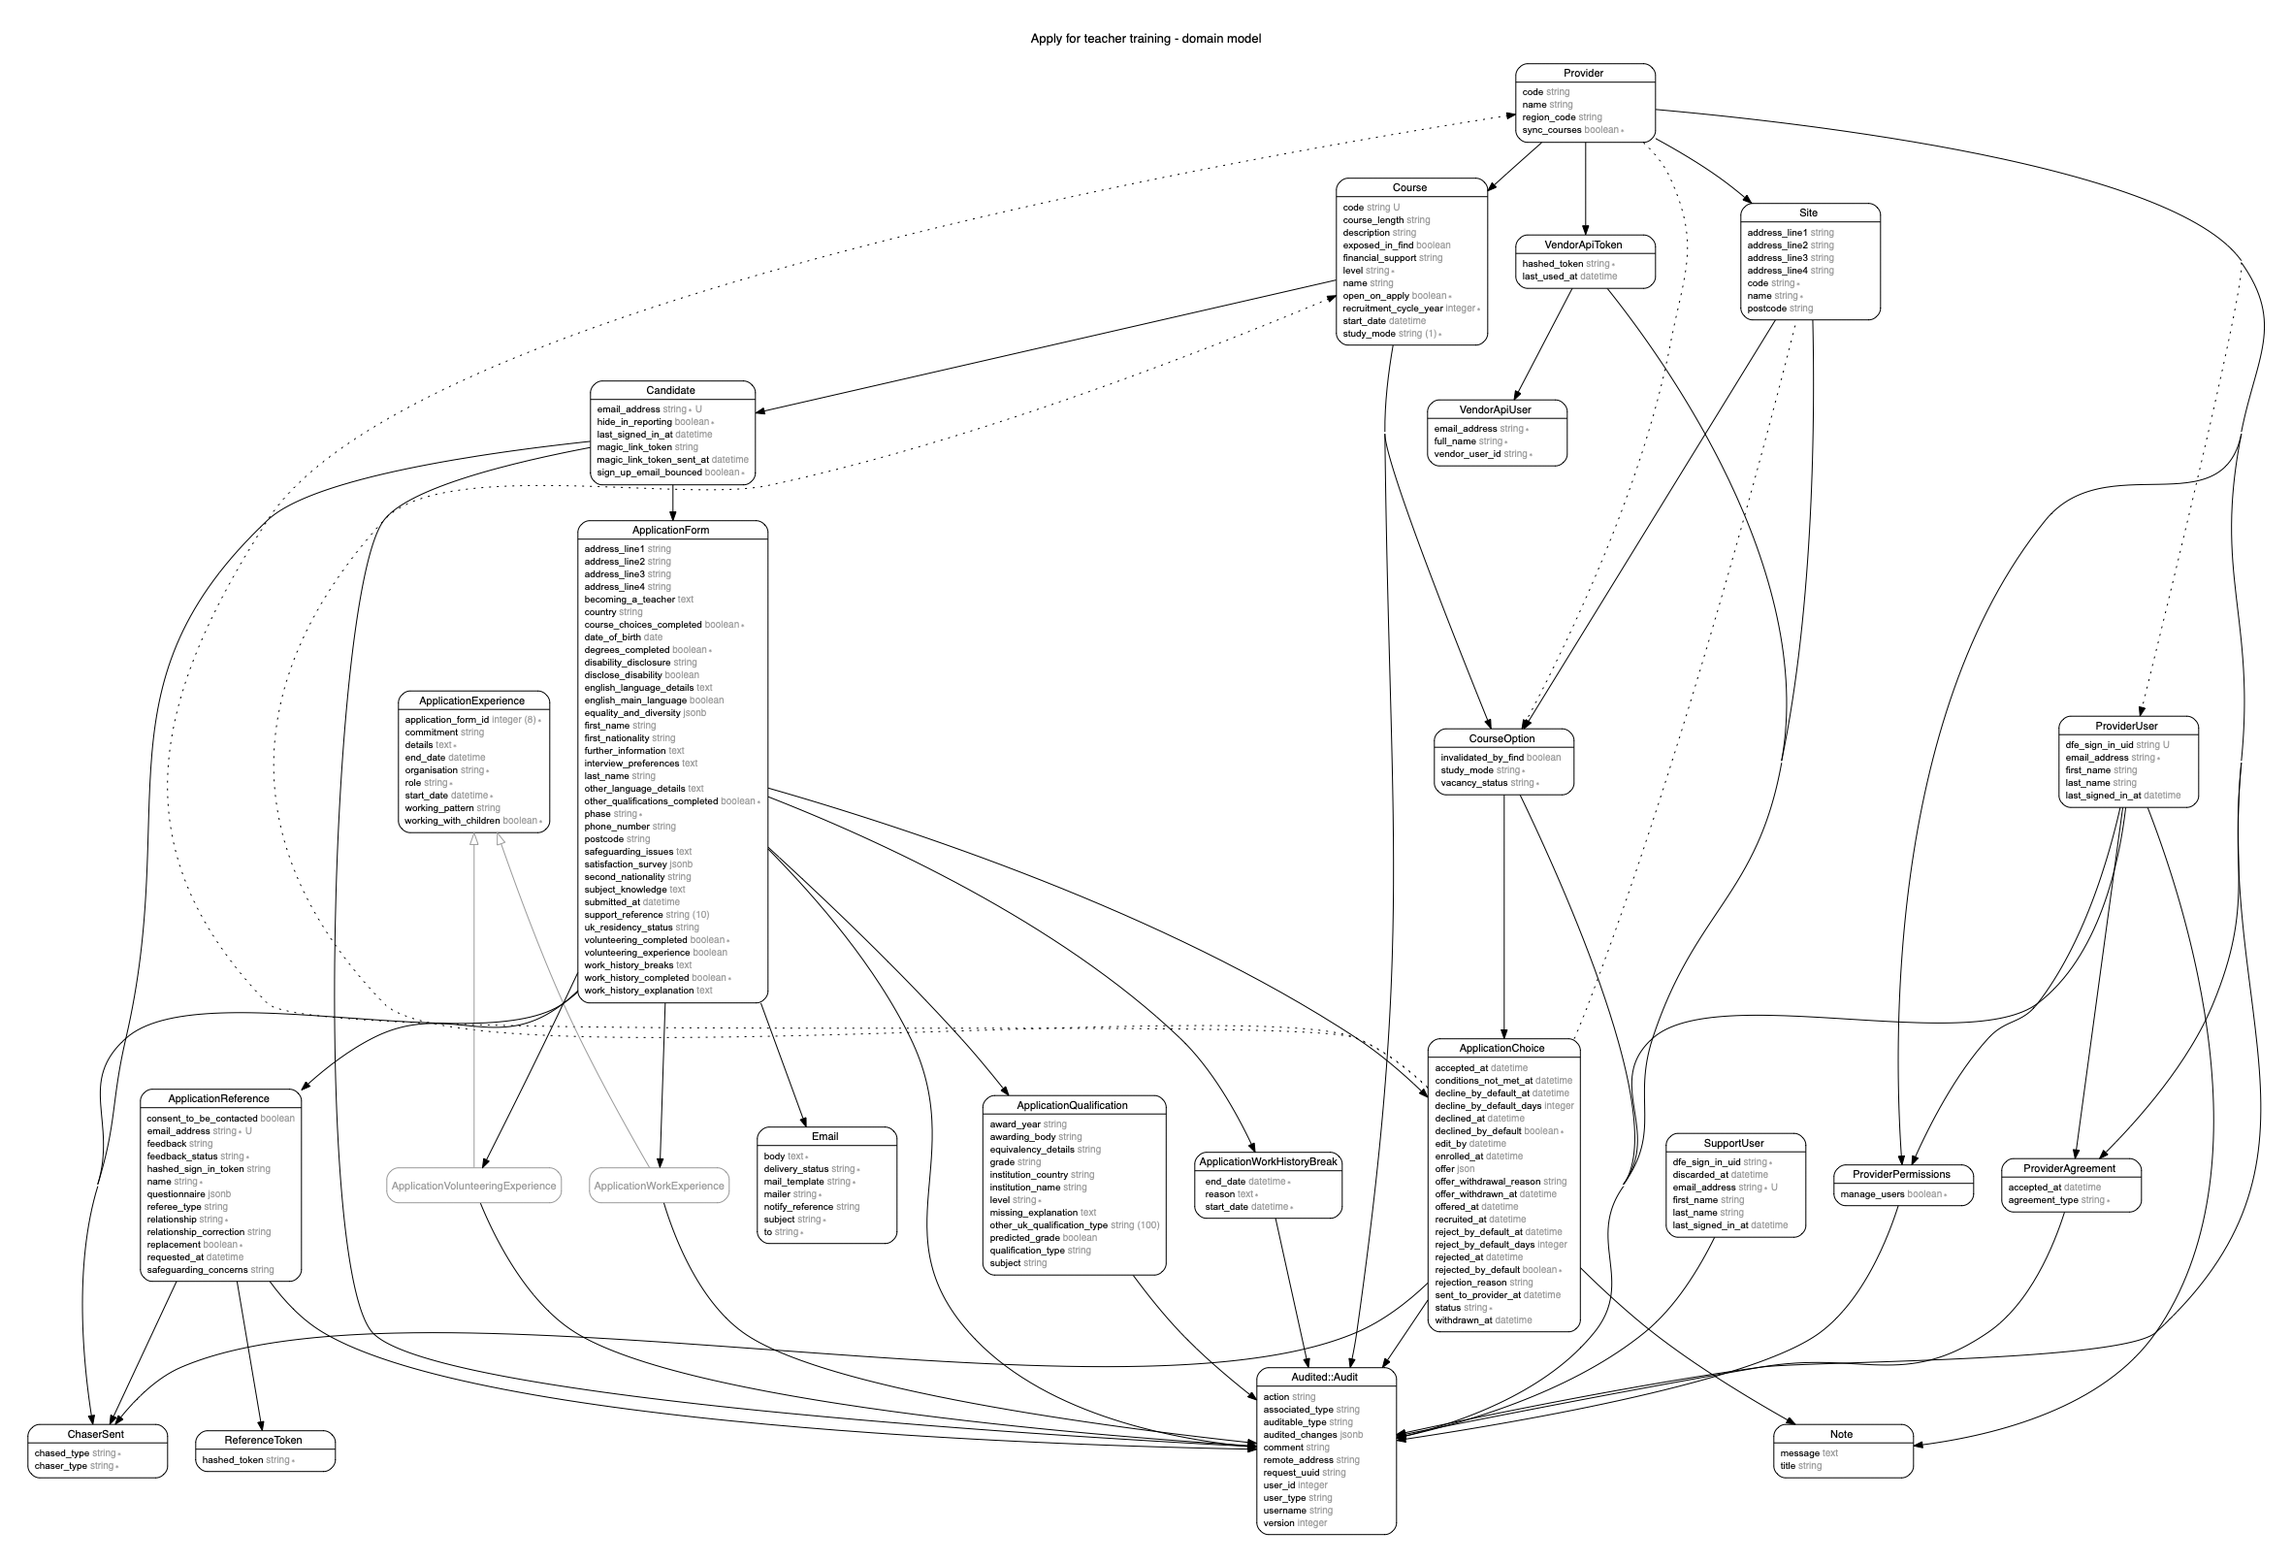
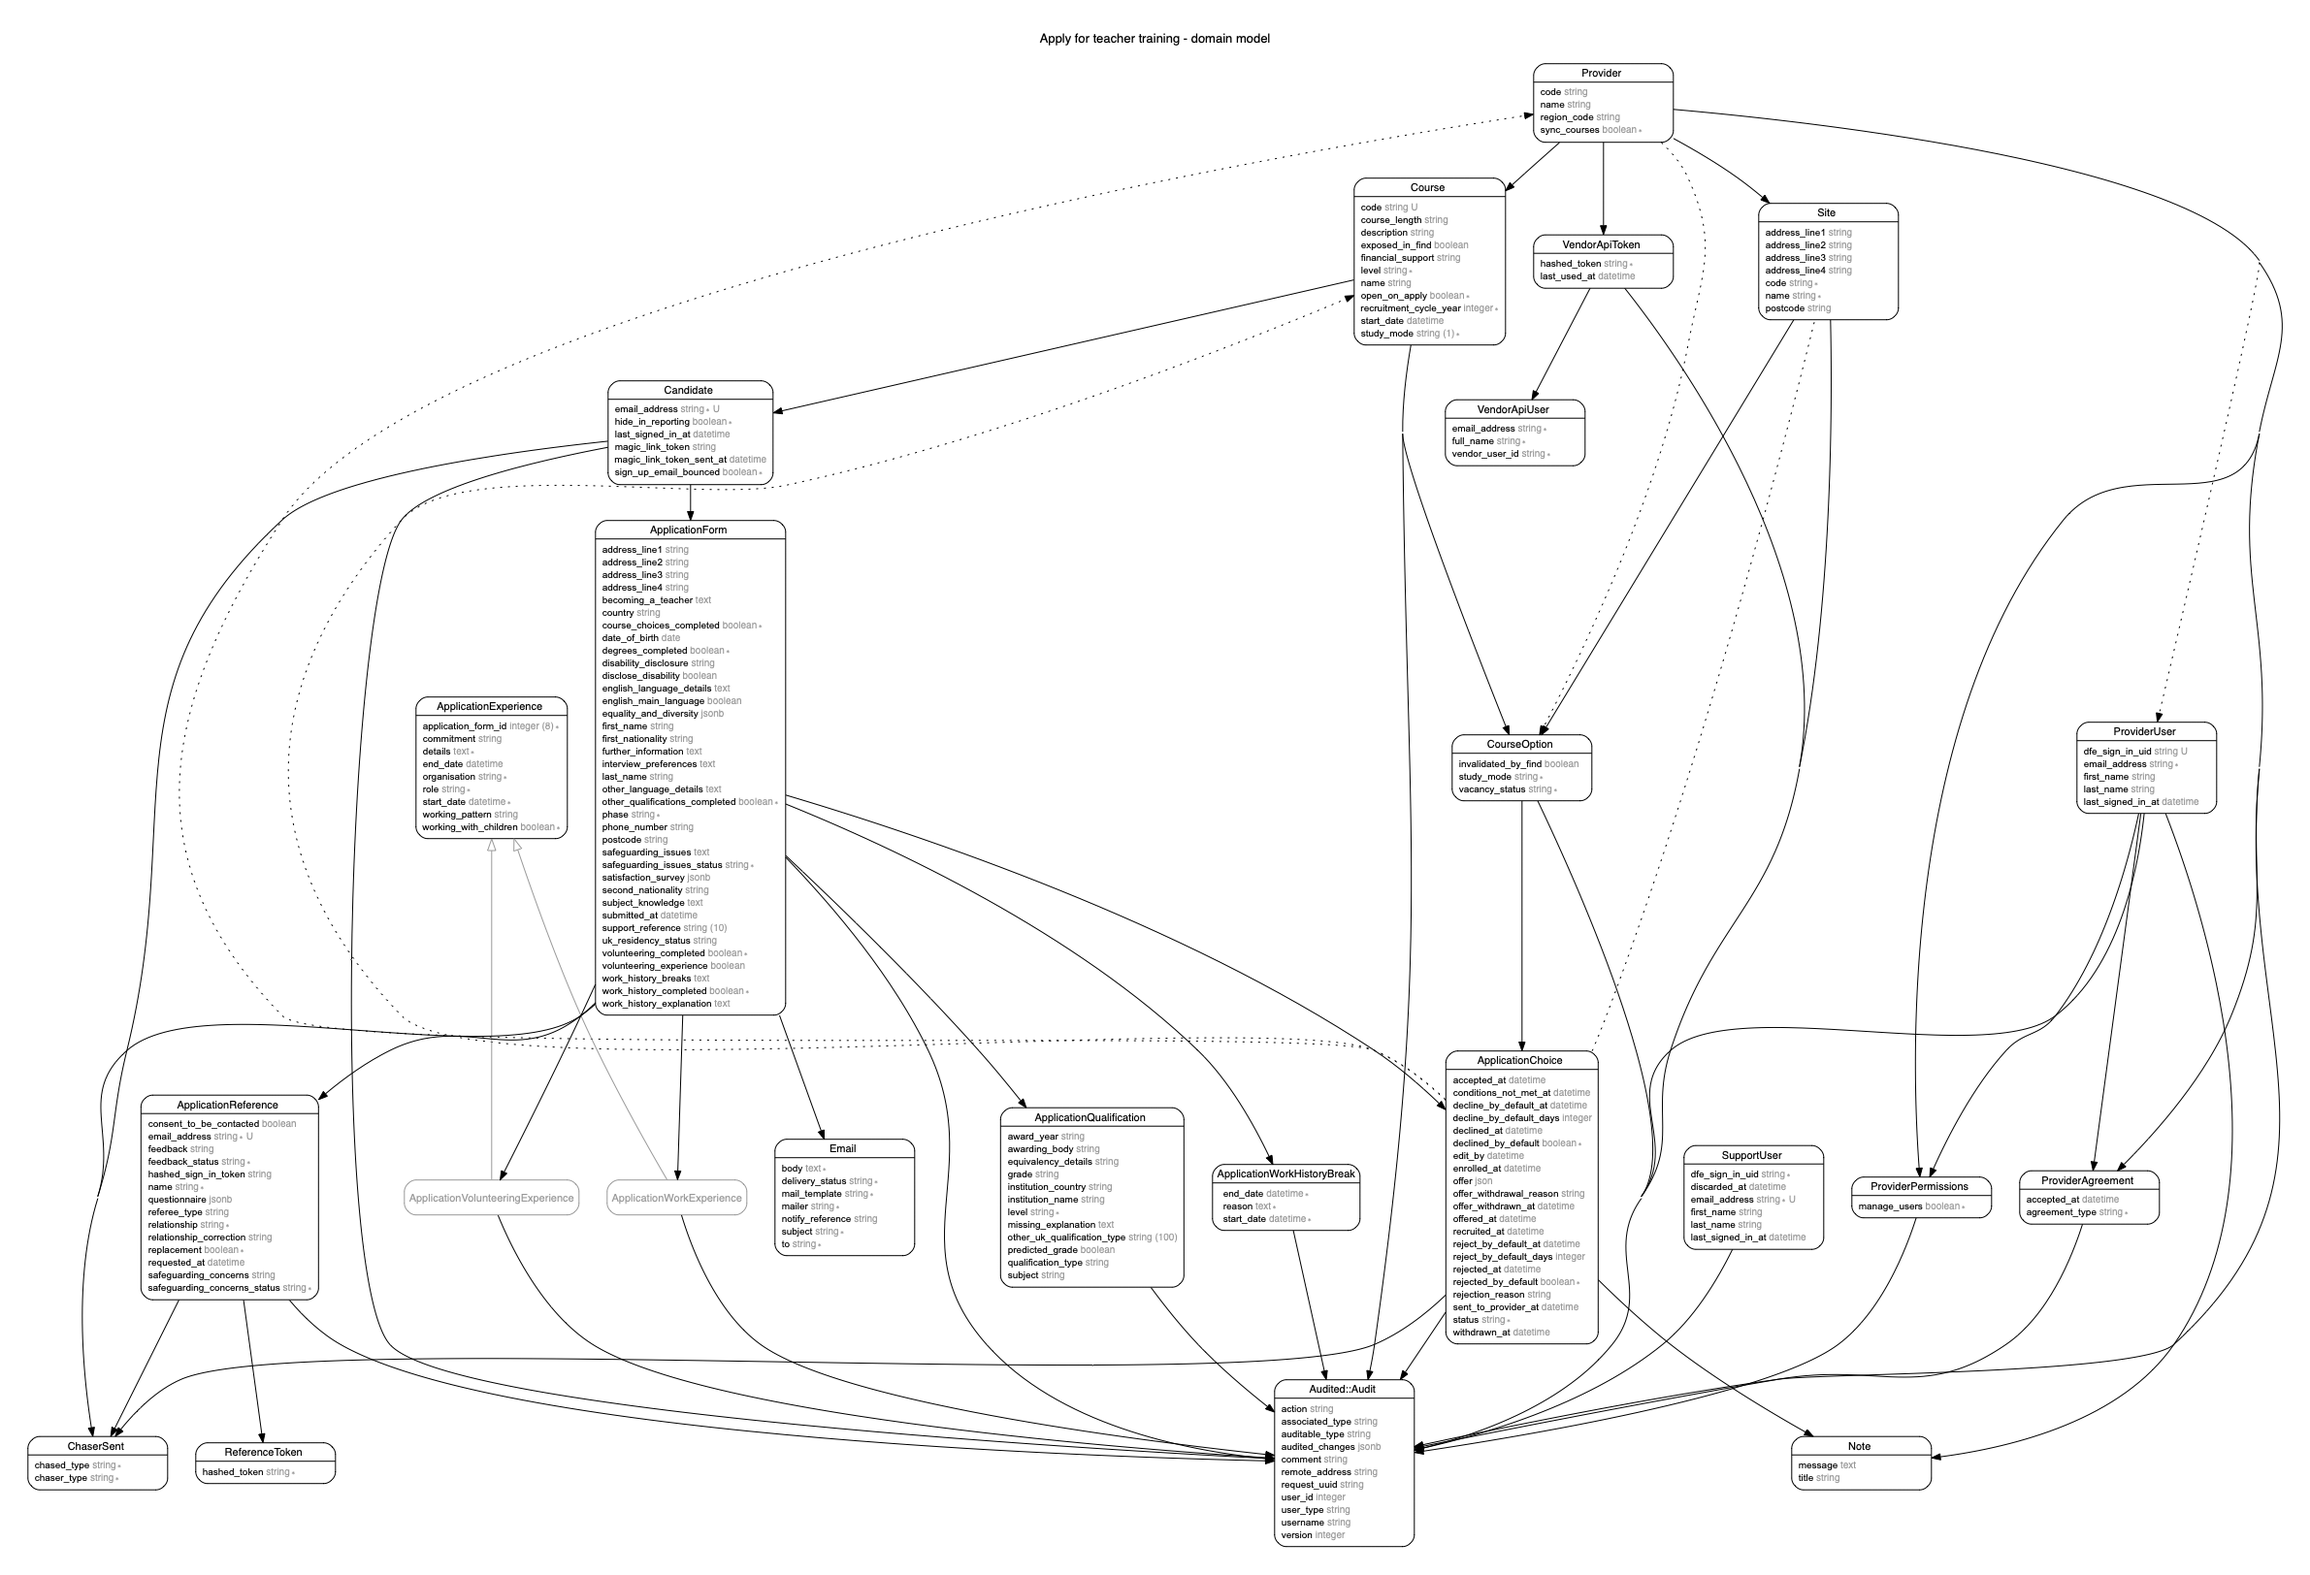
Update schema and domain model

diff --git a/db/schema.rb b/db/schema.rb
@@ -10,7 +10,7 @@
 #
 # It's strongly recommended that you check this file into your version control system.
 
-ActiveRecord::Schema.define(version: 2020_04_08_150738) do
+ActiveRecord::Schema.define(version: 2020_04_08_221253) do
 
   # These are extensions that must be enabled in order to support this database
   enable_extension "pgcrypto"
@@ -103,6 +103,7 @@ ActiveRecord::Schema.define(version: 2020_04_08_150738) do
     t.jsonb "equality_and_diversity"
     t.text "safeguarding_issues"
     t.jsonb "satisfaction_survey"
+    t.string "safeguarding_issues_status", default: "not_answered_yet", null: false
     t.index ["candidate_id"], name: "index_application_forms_on_candidate_id"
   end
 
@@ -309,6 +310,7 @@ ActiveRecord::Schema.define(version: 2020_04_08_150738) do
     t.string "safeguarding_concerns"
     t.string "relationship_correction"
     t.string "referee_type"
+    t.string "safeguarding_concerns_status", default: "not_answered_yet", null: false
     t.index ["application_form_id", "email_address"], name: "index_references_on_application_form_id_and_email_address", unique: true
     t.index ["application_form_id"], name: "index_references_on_application_form_id"
     t.index ["feedback_status"], name: "index_references_on_feedback_status"
